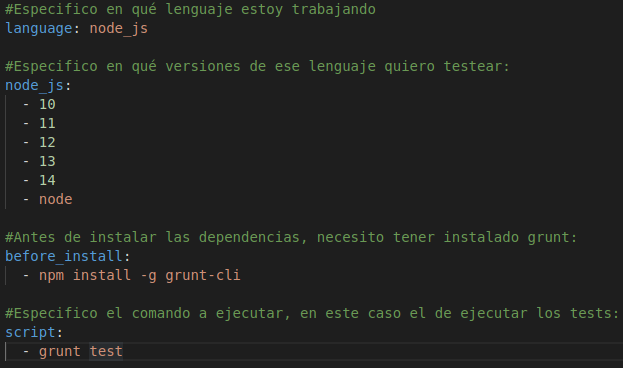
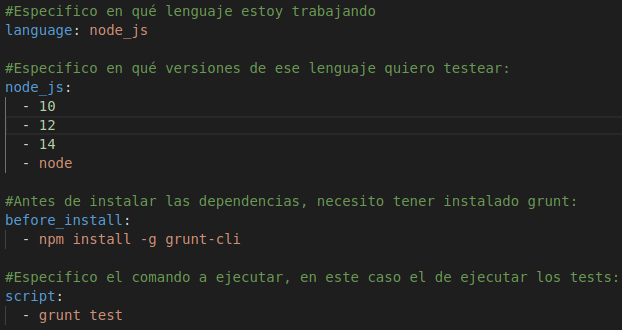
Actualiza documentación sobre Travis closes #71 [skip ci]

Changed region(s): [[0.0, 0.1515, 0.9164, 0.7879], [0.0, 0.8182, 1.0, 0.9697], [0.0, 0.0, 0.6109, 0.1212]]

diff --git a/docs/integracion_continua.md b/docs/integracion_continua.md
@@ -9,7 +9,7 @@ En primer lugar, he usado el sistema de integración continua Travis CI, ya que 
 
 En el cuál, se indica a travis que realice los siguientes pasos:
 - Primero, se indica que lenguaje voy usar, en este caso, node.js.
-- Luego, indico en qué versiones de este lenguaje quiero probar mi aplicación (se realizará una prueba diferente en travis por cada lenguaje), añado la versión más reciente con `node` y luego añado las versiones de la `14` a la `10`, en las cuáles sé que mi aplicación funciona correctamente en el estado actual.
+- Luego, indico en qué versiones de este lenguaje quiero probar mi aplicación (se realizará una prueba diferente en travis por cada lenguaje), añado la versión más reciente con `node` y luego añado las versiones `14`, `12` y `10`, las cuáles son las que están en estado *Active LTS* o *Maintenance LTS*.
 - Después, debo indicar que antes de que se ejecute la orden para instalar las dependencias, se debe instalar globalmente grunt-cli, ya que es necesario para ejecutar el administrador de tareas. En la versión anterior del proyecto había que instalar también globalmente jest para poder realizar los tests, sin embargo, se ha [cambiado](https://github.com/juancpineda97/LaLigaStats/issues/55) para evitar tenerlo que instalar globalmente.
 - Por último, se indica la orden para ejecutar los tests del proyecto, si se ejecutan los tests satisfactoriamente y con resultado positivo, se pasará la prueba de travis, en otro caso, dará fallo en la prueba e indicará qué es lo que ha fallado.
 
